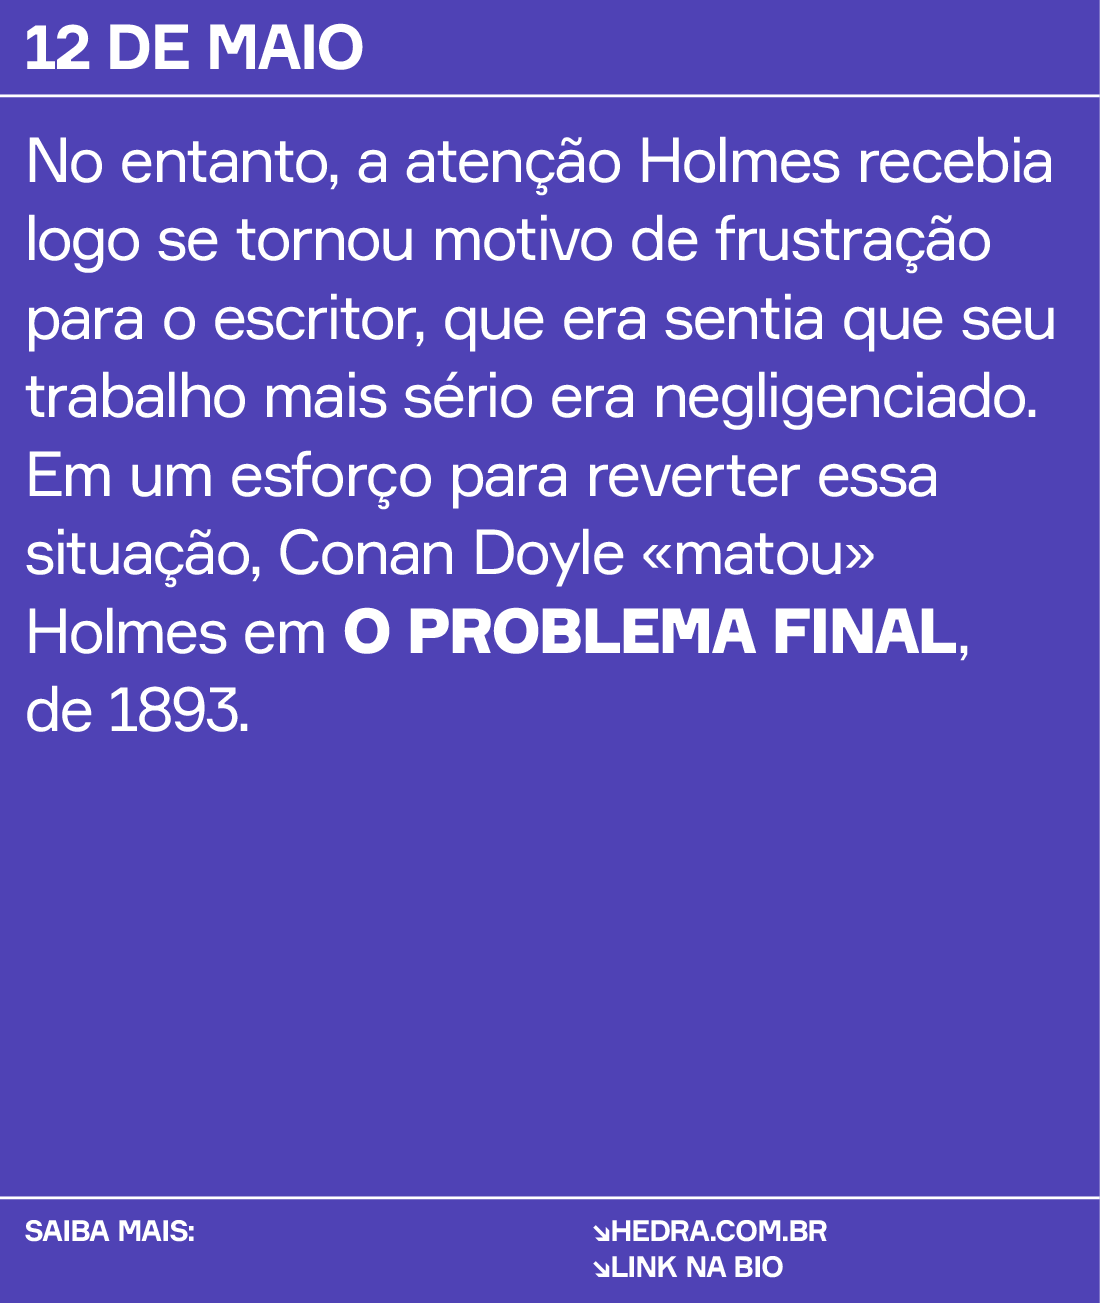
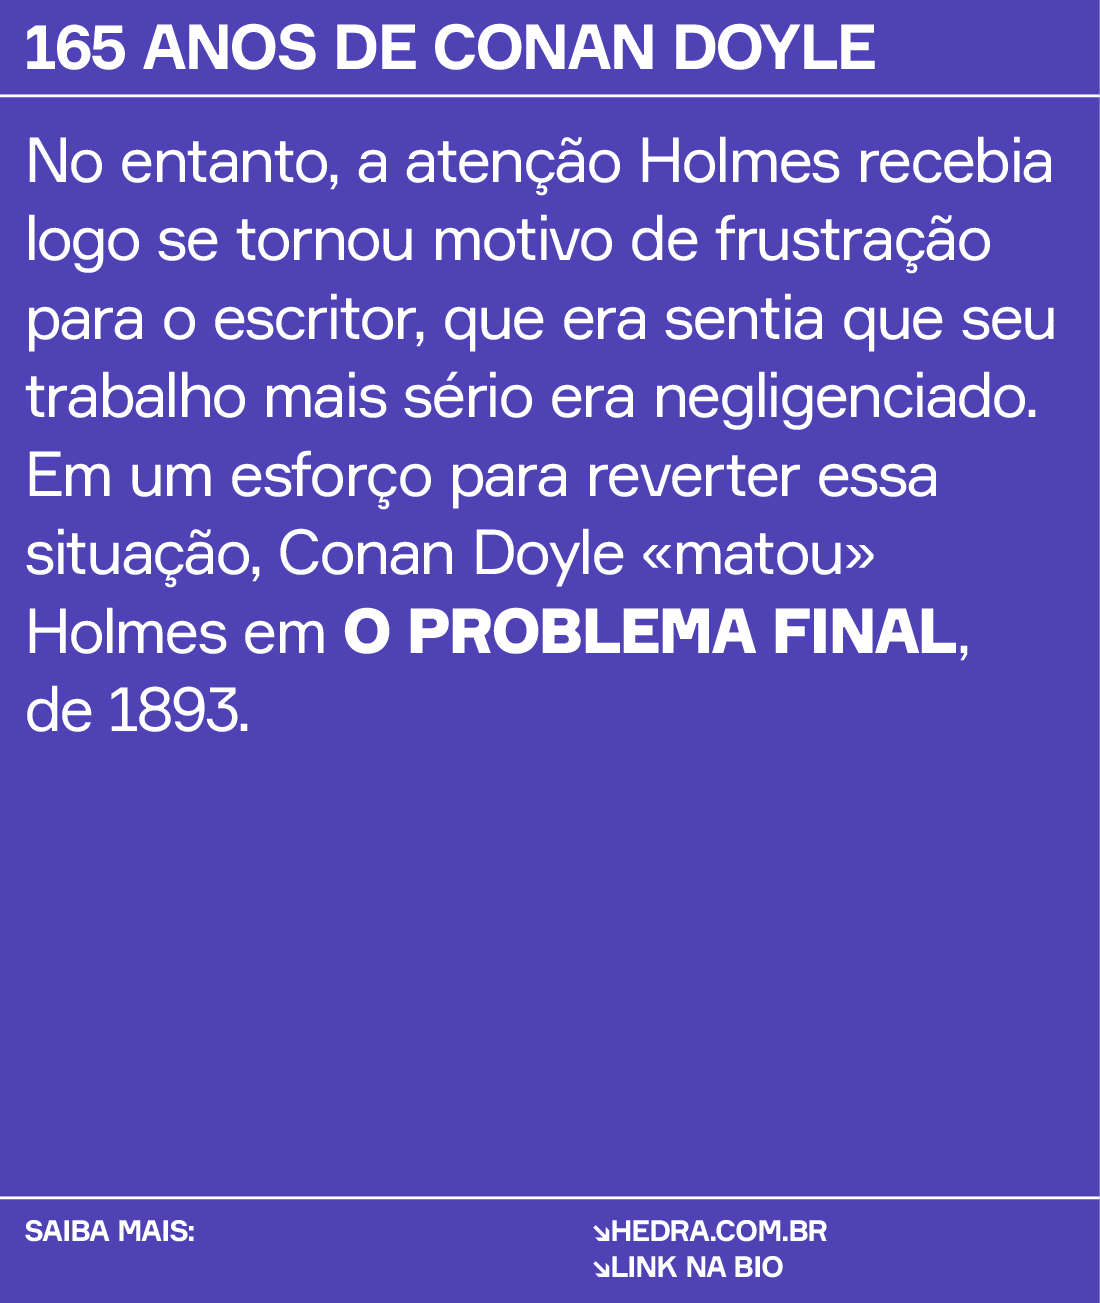
doyle correções

Changed region(s): [[0.0309, 0.0, 0.8036, 0.0614]]

diff --git a/campanhas/destaques-lote1/DOYLE_PIRATAS_EFEMERIDE.tex b/campanhas/destaques-lote1/DOYLE_PIRATAS_EFEMERIDE.tex
@@ -22,11 +22,11 @@
 \hyphenpenalty=10000
 \exhyphenpenalty=10000
 
-\Mensagem{12 DE MAIO} %Sempre usar esse header
+\Mensagem{165 ANOS DE CONAN DOYLE} %Sempre usar esse header
 
 \MyPicture{DOYLE_PIRATAS_1}
 
-\vfill\scale[factor=6]{\Seta\,165 ANOS DE {\bf ARTHUR CONAN DOYLE}}
+\vfill\scale[factor=6]{\Seta\, 22 DE MAIO}
 
 \page %---------------------------------------------------------| 
 
@@ -41,7 +41,7 @@ Arthur Conan Doyle foi um renomado escritor escocês, mais conhecido por criar o
 
 \page
 
- No entanto, a atenção Holmes recebia logo se tornou motivo de frustração para o escritor, que  era  sentia que seu trabalho mais sério era negligenciado. Em um esforço para reverter essa situação, Conan Doyle «matou» Holmes em {\bf O PROBLEMA FINAL}, de 1893.
+ No entanto, a atenção Holmes recebia logo se tornou motivo de frustração para o escritor, que  sentia que seu trabalho mais sério era negligenciado. Em um esforço para reverter essa situação, Conan Doyle «matou» Holmes em {\bf O PROBLEMA FINAL}, de 1893.
 
 \page
 

diff --git a/campanhas/chomsky/CHOMSKY_ANARQUISMO_RELEASE.tex b/campanhas/chomsky/CHOMSKY_ANARQUISMO_RELEASE.tex
@@ -67,7 +67,7 @@ Chomsky sobre anarquismo}
 \blank[big]
 
 \noindent{\it Maior compilação de Noam Chomsky já
-publicada sobre o assunto,} Notas sobre anarquismo {\it reune oito entrevistas e dois artigos em que o filósofo
+publicada sobre o assunto,} Notas sobre o anarquismo {\it reúne oito entrevistas e dois artigos em que o filósofo
 expõe pontos de vista acerca das bases ideológicas da esquerda
 que fundamentam sua análise e sua proposta estratégica de transformação
 social.}
@@ -80,7 +80,7 @@ social.}
 
 
 \inoutermargin[width=70mm,hoffset=1cm,voffset=4.5cm,style=tfx]
-{\noindent{\bf Título} {\em Notas sobre anarquismo}\\
+{\noindent{\bf Título} {\em Notas sobre o anarquismo}\\
 {\bf Autor} Noam Chosmky\\
 {\bf Organizadores} Felipe Corrêa, Rodrigo Rosa, Bruna Mantese, Pablo Ortellado, Arthur Dantas e Ruy Fernando Cavalheiro\\
 {\bf Editora} Hedra\\

diff --git a/campanhas/destaques-lote1/DOYLE_PIRATAS_EFEMERIDE.md b/campanhas/destaques-lote1/DOYLE_PIRATAS_EFEMERIDE.md
@@ -1,4 +1,4 @@
-12 de maio: 165 anos de Arthur Conan Doyle
+22 de maio: 165 anos de Arthur Conan Doyle
 
 Arthur Conan Doyle foi um renomado escritor escocês, mais conhecido por criar o famoso detetive Sherlock Holmes.
 

diff --git a/campanhas/destaques-lote1/DOYLE_PIRATAS_EFEMERIDE/DOYLE_PIRATAS_EFEMERIDE.md b/campanhas/destaques-lote1/DOYLE_PIRATAS_EFEMERIDE/DOYLE_PIRATAS_EFEMERIDE.md
@@ -1,4 +1,4 @@
-12 de maio: 165 anos de Arthur Conan Doyle
+22 de maio: 165 anos de Arthur Conan Doyle
 
 Arthur Conan Doyle foi um renomado escritor escocês, mais conhecido por criar o famoso detetive Sherlock Holmes.
 
